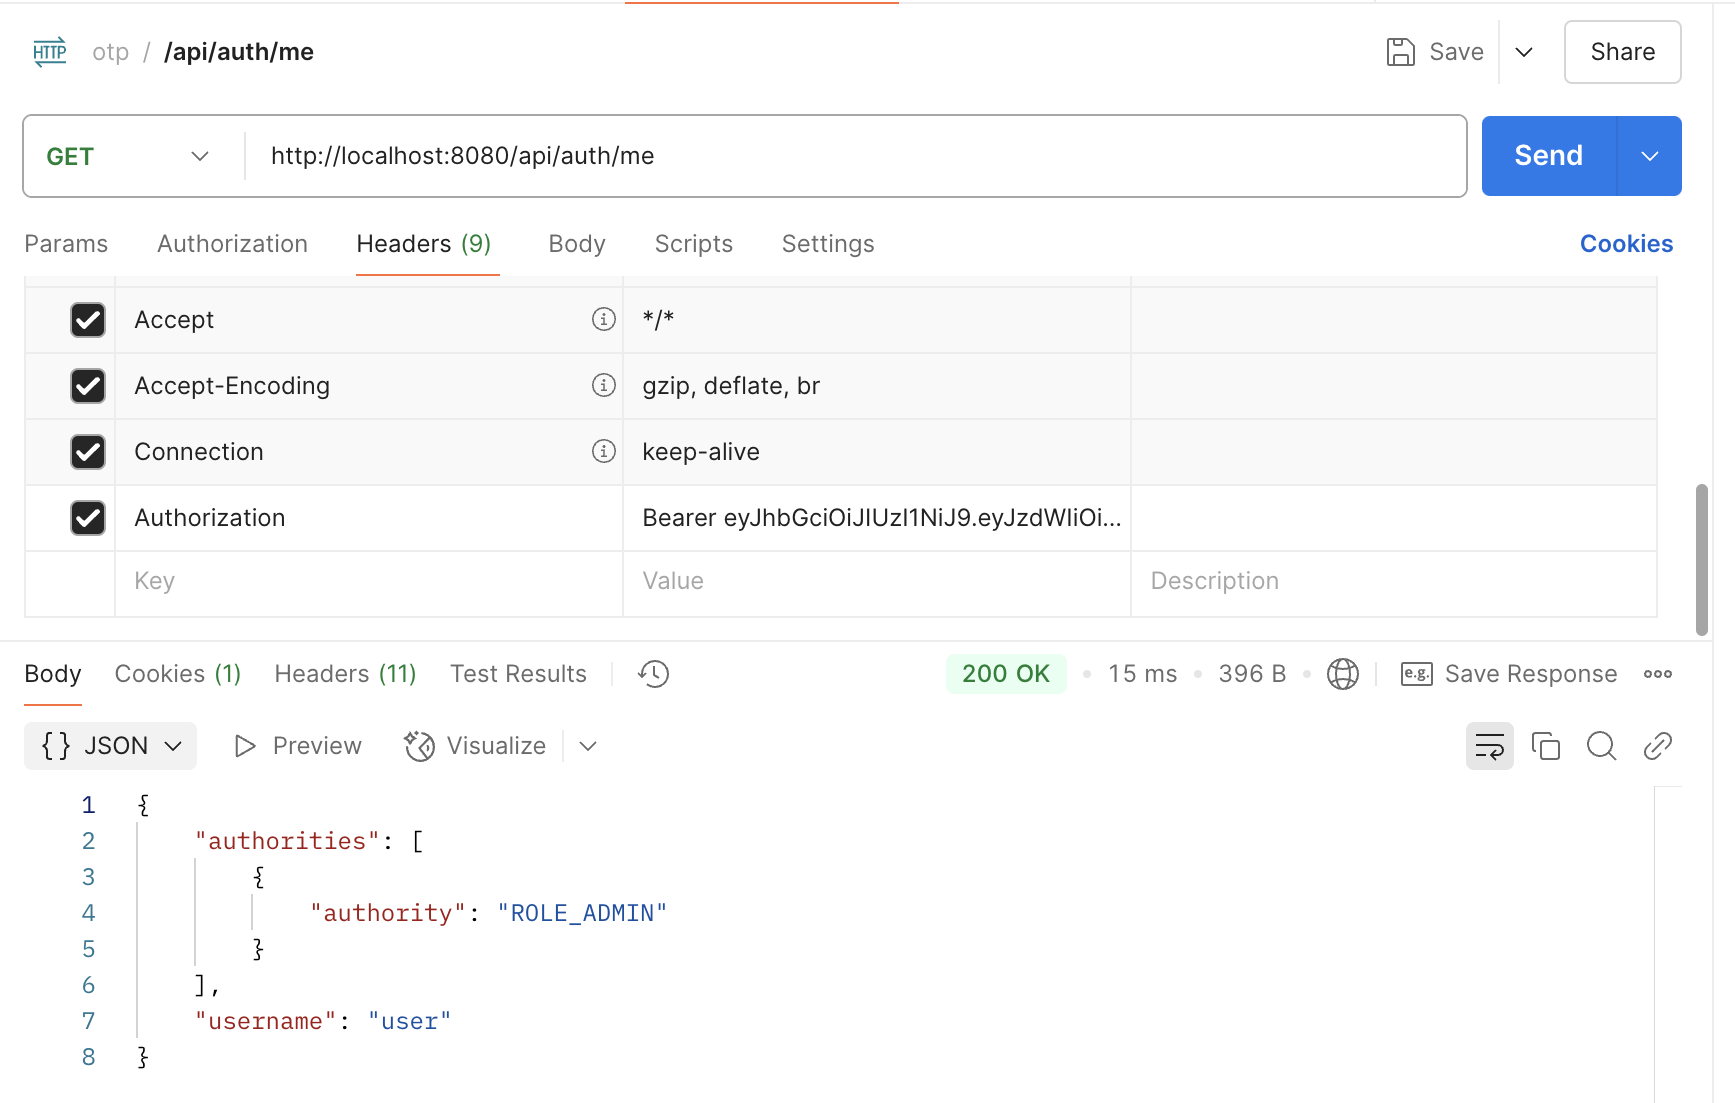
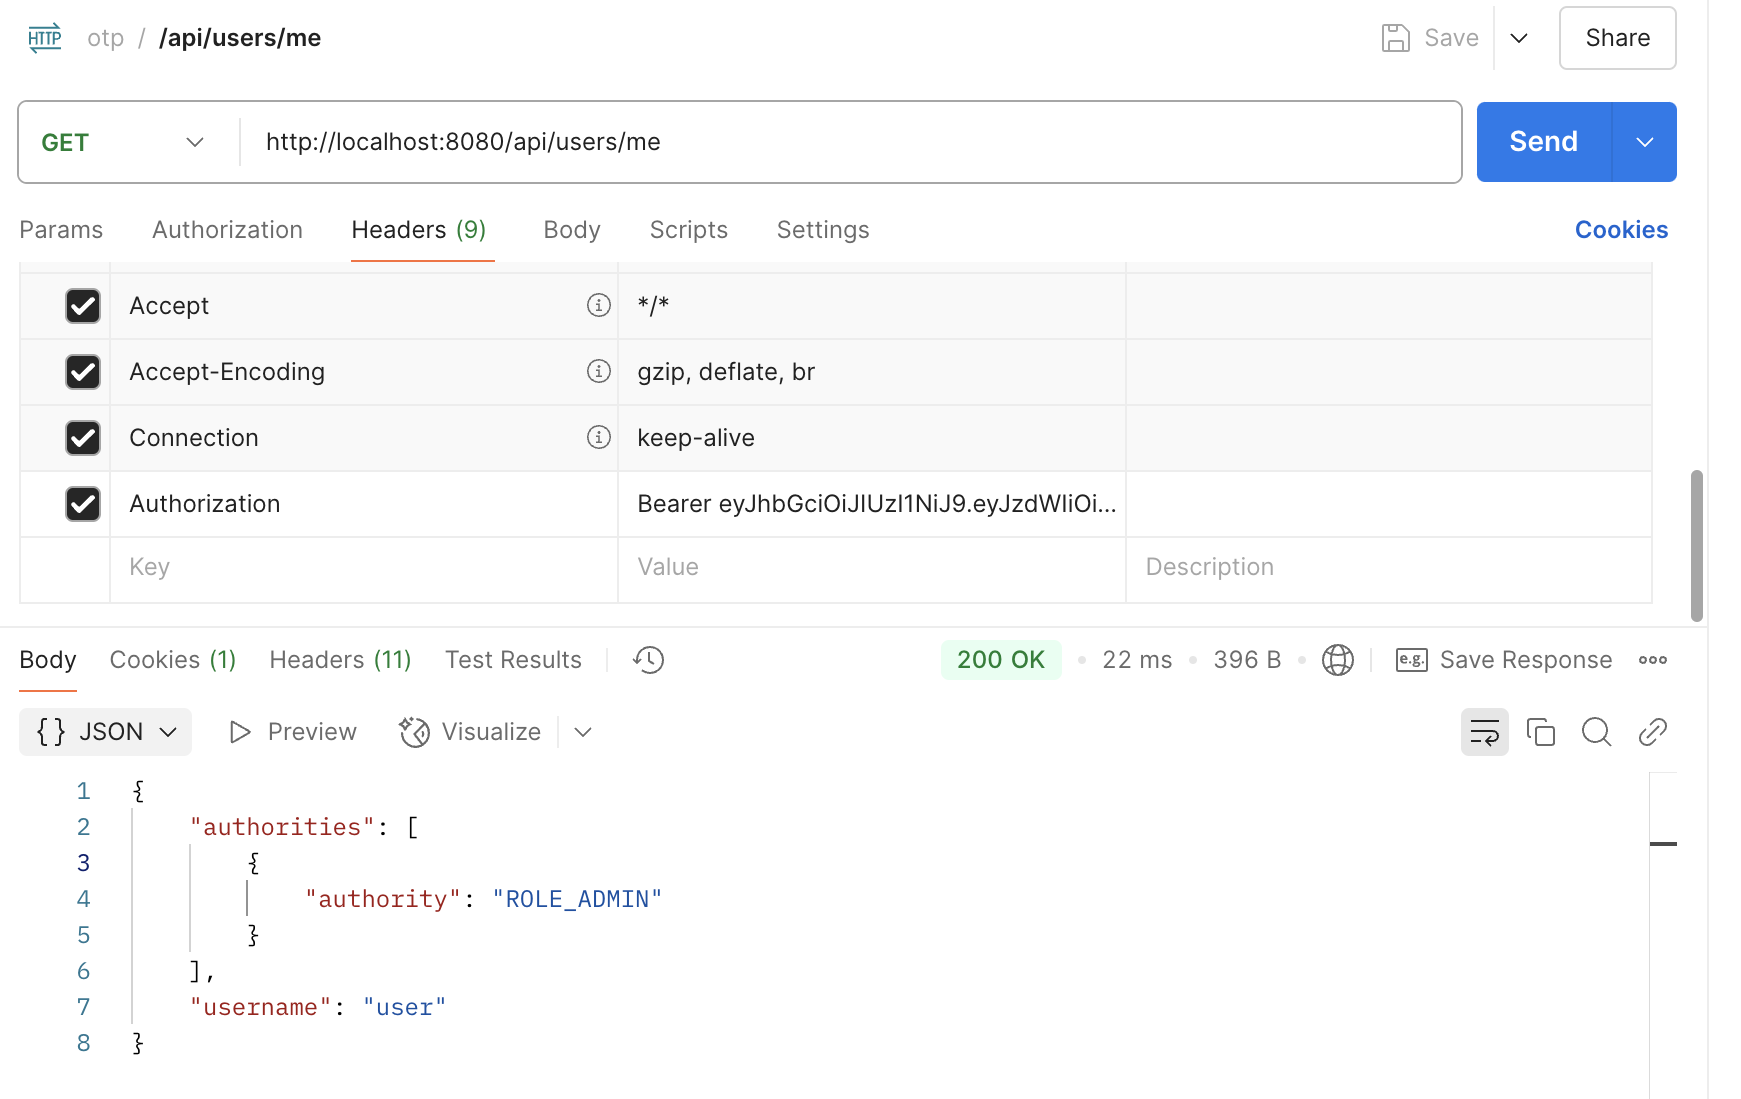
fix

diff --git a/src/main/java/com/example/otp_security_service/controllers/UserController.java b/src/main/java/com/example/otp_security_service/controllers/UserController.java
@@ -4,9 +4,13 @@ import com.example.otp_security_service.models.User;
 import com.example.otp_security_service.services.UserService;
 import org.springframework.http.HttpStatus;
 import org.springframework.http.ResponseEntity;
+import org.springframework.security.core.Authentication;
+import org.springframework.security.core.context.SecurityContextHolder;
+import org.springframework.security.core.userdetails.UserDetails;
 import org.springframework.web.bind.annotation.*;
 
 import java.util.List;
+import java.util.Map;
 
 @RestController
 @RequestMapping("/api/users")
@@ -21,5 +25,20 @@ public class UserController {
     @GetMapping
     public List<User> getAllUsers() {
         return userService.getAllUsers();
+    }
+
+    @GetMapping("/me")
+    public Map<String, Object> getCurrentUser() {
+        Authentication authentication = SecurityContextHolder.getContext().getAuthentication();
+        Object principal = authentication.getPrincipal();
+
+        if (principal instanceof UserDetails userDetails) {
+            return Map.of(
+                    "username", userDetails.getUsername(),
+                    "authorities", userDetails.getAuthorities()
+            );
+        }
+
+        return Map.of("user", principal.toString());
     }
 }

diff --git a/src/main/java/com/example/otp_security_service/controllers/AuthController.java b/src/main/java/com/example/otp_security_service/controllers/AuthController.java
@@ -34,19 +34,4 @@ public class AuthController {
         String token = jwtUtil.generateToken(request.getUsername());
         return token;
     }
-
-    @GetMapping("/me")
-    public Map<String, Object> getCurrentUser() {
-        Authentication authentication = SecurityContextHolder.getContext().getAuthentication();
-        Object principal = authentication.getPrincipal();
-
-        if (principal instanceof UserDetails userDetails) {
-            return Map.of(
-                    "username", userDetails.getUsername(),
-                    "authorities", userDetails.getAuthorities()
-            );
-        }
-
-        return Map.of("user", principal.toString());
-    }
 }

diff --git a/README.md b/README.md
@@ -54,13 +54,13 @@
 
 ![Авторизация](img/auth.png)
 
-### 3. Метод `API` требующий авторизации (`http://localhost:8080/api/auth/me`)
+### 3. Метод `API` требующий авторизации (`http://localhost:8080/api/users/me`)
 
 Метод `API`, предусматривающий получение пользователем информации о себе требует авторизации
 
 Для получения доступа к этому методу необходимо:
 
-1) отправить запрос методом `GET` по url `http://localhost:8080/api/auth/me`
+1) отправить запрос методом `GET` по url `http://localhost:8080/api/users/me`
 
 2) передать в заголовке запроса `Bearer-token`, который был получен на этапе авторизации (`Authorization: Bearer <token>`)
 
